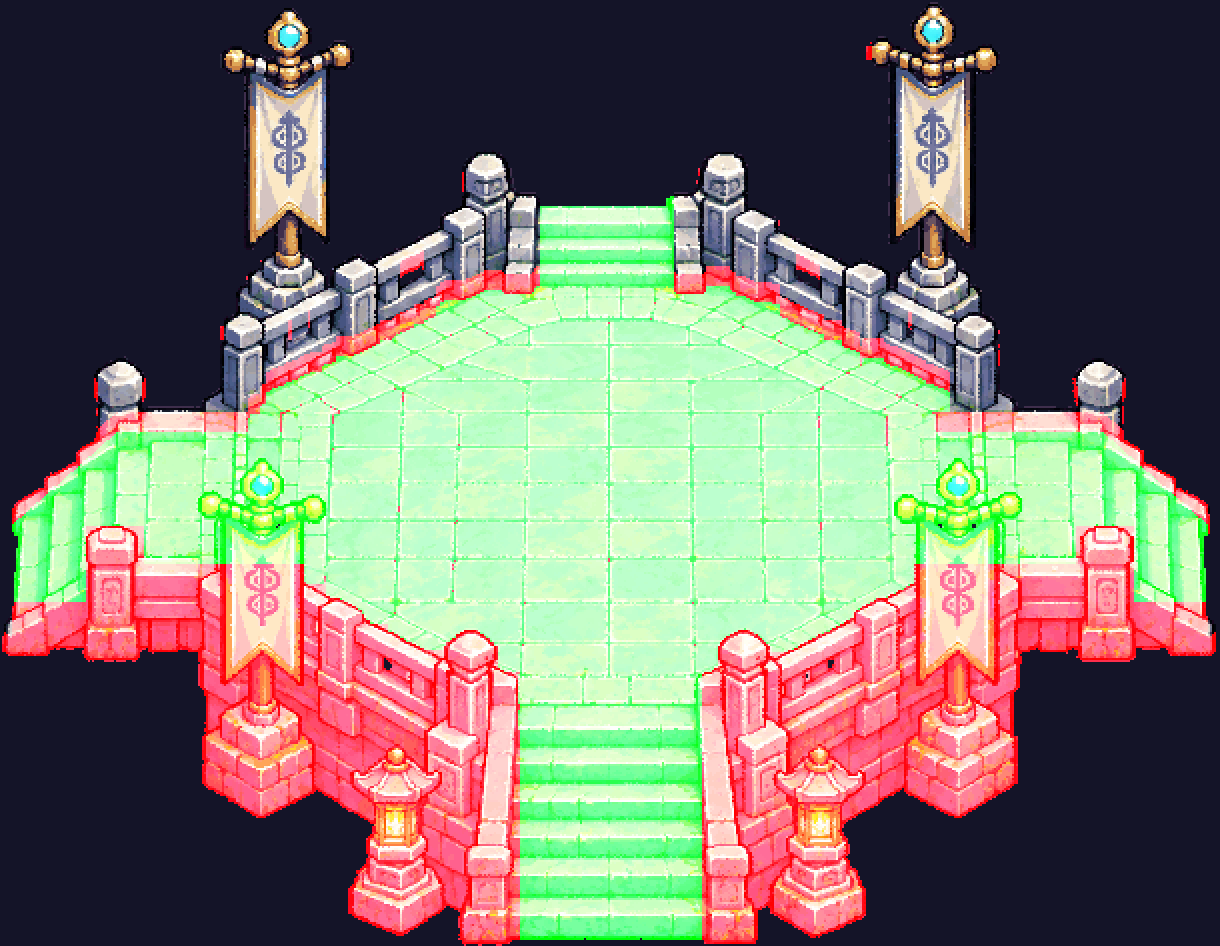
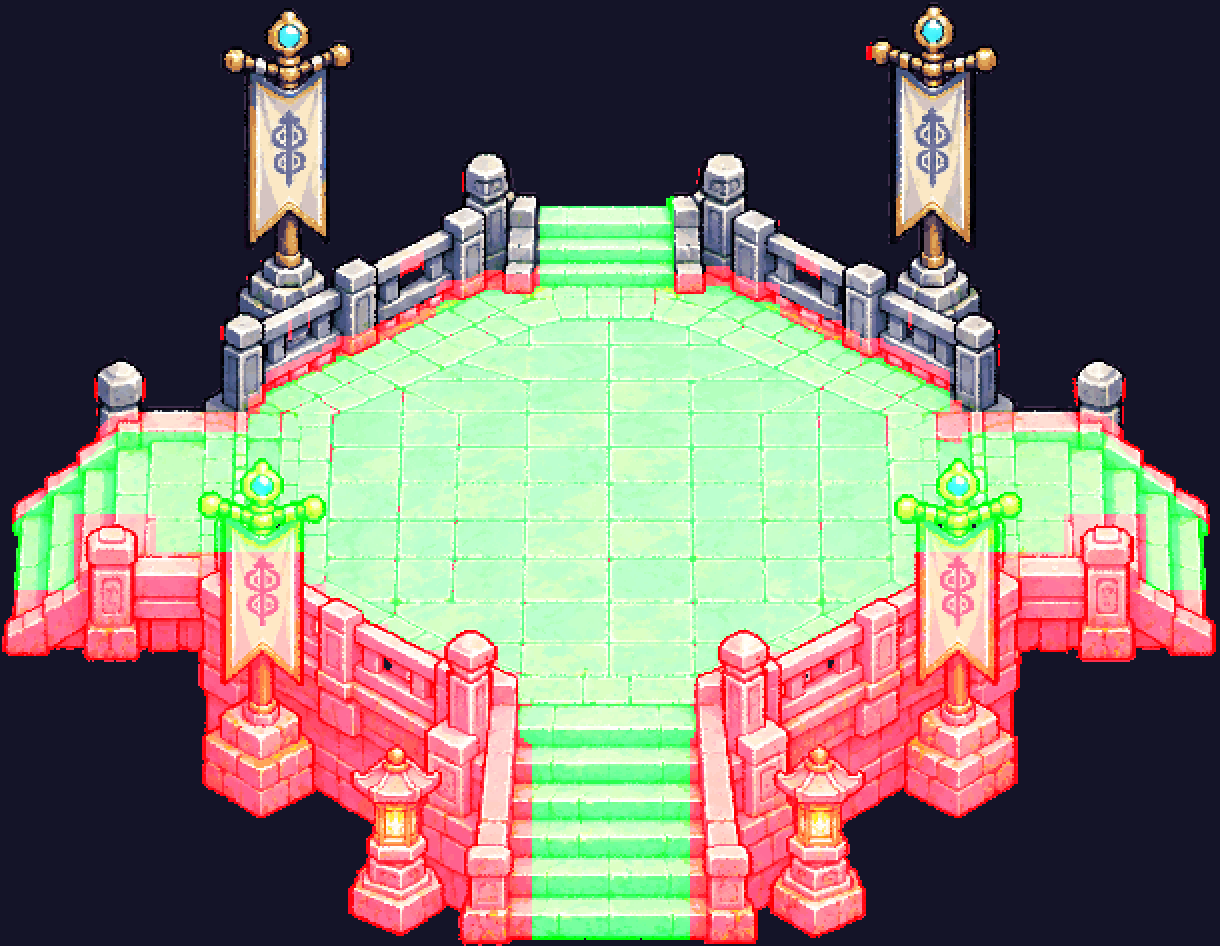
M8-02g: noi vung chan 6 px quanh khoi phia nam be, lop che co nam chi giu diem anh co

diff --git a/src/data/sect_plaza.js b/src/data/sect_plaza.js
@@ -1,4 +1,4 @@
 // SINH TỰ ĐỘNG bởi tools/build_be_phap_dai.py — đừng sửa tay. Bệ Tụ Linh Pháp Đài (sprites/tm_be*.png).
 // anchor: tâm mặt sàn trong sprite (= tâm bản đồ). rows: lưới ô 16 px quanh tâm, ô (x0 + i, y0 + j); "#" đặc, "." sàn/bậc, " " ngoài.
-// fine: lưới mịn `cell` px tính từ góc trên-trái sprite (đặt tại tâm bản đồ - anchor, làm tròn) — "#" đặc; dùng cho di chuyển.
-export const PLAZA = {"scale": 1, "anchor": [305.0, 242.0], "banners": [[104.4, 0.0, 184.4, 160.0, 160.0], [432.8, 0.0, 502.7, 160.0, 160.0], [94.3, 225.7, 166.7, 397.5, 397.5], [454.7, 225.7, 527.2, 397.5, 397.5]], "x0": -20, "y0": -16, "rows": ["                                        ", "                                        ", "                                        ", "                                        ", "                                        ", "                                        ", "                                        ", "                  ....                  ", "                  ....                  ", "               ###....### #             ", "             ##..........##             ", "           ##..............##           ", "         ##..................##         ", "     ####......................####     ", "    ................................    ", "   ..................................   ", " #....................................# ", " ...#..............................#... ", " ...######...................#######... ", " ..########..................########.. ", " ############..............############ ", " ##### ##########......########## ##### ", "       ##########......##########       ", "       ##########......##########       ", "       ##########......##########       ", "       ##########......##########       ", "         #  #####......#####  #         ", "            #####......#####            ", "            #####......#####            ", "            #####......#####            ", "               ##......##               "], "cell": 4, "fine": [".........................................................................................................................................................", ".........................................................................................................................................................", ".........................................................................................................................................................", ".........................................................................................................................................................", ".........................................................................................................................................................", ".........................................................................................................................................................", "............................................................................................................#............................................", "............................................................................................................#............................................", ".........................................................................................................................................................", ".........................................................................................................................................................", ".........................................................................................................................................................", ".........................................................................................................................................................", ".........................................................................................................................................................", ".........................................................................................................................................................", ".........................................................................................................................................................", ".........................................................................................................................................................", ".........................................................................................................................................................", ".........................................................................................................................................................", ".........................................................................................................................................................", ".........................................................................................................................................................", ".........................................................................................................................................................", ".........................................................................................................................................................", ".........................................................................................................................................................", ".........................................................................................................................................................", ".........................................................................................................................................................", ".........................................................................................................................................................", ".........................................................................................................................................................", ".........................................................................................................................................................", ".........................................................................................................................................................", ".........................................................................................................................................................", ".........................................................................................................................................................", "...................................................##..............................................##....................................................", "..................................................###..............................................####..................................................", "..................................................###..............#....................###........####..................................................", "..................................................#........#########................#########........##..................................................", ".......................................................#############................#############........................................................", "......................................................#######.#####.................####...#######.......................................................", ".....................................................######...................................#####......................................................", "...................................................####..........................................####............#.......................................", ".................................................######..........................................######..........#.......................................", "....................................#..........######..............................................#######.......#.......................................", "...........................#........#........######..................................................######..............................................", "..........................................#######......................................................########..........................................", "........................................#######..........................................................########........................................", ".....................................########..............................................................########......................................", "...................................#######.....................................................................######....................................", ".................................#######.........................................................................######..................................", ".................................####..............................................................................####...............#..................", "................................###..................................................................................##...............#.....#............", "...............................##.....................................................................................................#.....#............", "...............................##........................................................................................................................", "..............###################..#.....#...........................................................................#####################...............", ".............##################......................................................................................######################..............", "............###################......................................................................................#######################.............", "............##............................................................................................................................###............", "...........##..............................................................................................................................###...........", ".........###................................................................................................................................###..........", ".........##...................................................................................................................................#..........", "........##.....................................................................................................................................##........", "......###.......................................................................................................................................###......", ".....###.........................................................................................................................................##......", "....##............................................................................................................................................###....", "..###..............................................................................................................................................####..", ".###................................................................................................................................................###..", ".##..................................................................................................................................................##..", ".........................................................................................................................................................", "...........#######....................................................................................................................########...........", "...........#######....................................................................................................................########...........", "...........#######....................................................................................................................########...........", "...........#######....................................................................................................................########...........", "...........###########################............................................................................############################...........", "...........###########################............................................................................############################...........", "...........###########################............................................................................############################...........", "...........##############################........................................................................#############################...........", "...........###############################.....................................................................###############################...........", "..##########################################................................................................###########################################..", ".############################################..............................................................############################################..", ".#############################################............................................................#############################################..", ".################################################.......................................................###############################################..", "##################################################.......####..............................####.......##################################################.", "####################################################....######............................######....####################################################.", "#######...####################################################............................#######################################.############....######.", "...........######........#####################################............................######################################.......#######...........", ".........................######################################..........................#######################################.........................", ".........................########################################.......................########################################.........................", ".........................########################################.......................########################################.........................", ".........................########################################.......................#######################################..........................", "..........................#######################################.......................#######################################..........................", "..........................#######################################.......................#######################################..........................", "..........................#######################################.......................#######################################..........................", ".........................########################################.......................#######################################..........................", ".........................########################################.......................#######################################..........................", ".........................########################################.......................#######################################..........................", ".........................########################################.......................#######################################..........................", ".........................########################################.......................#######################################..........................", ".........................########################################.......................#######################################..........................", ".........................########################################.......................#######################################..........................", ".........................########################################.......................#######################################..........................", "..........................#######################################.......................#######################################..........................", "...........................############.#########################.......................########################.############............................", ".............................########.....#######################.......................######################.....########..............................", "...............................####........######################.......................####################.........#####...............................", ".............................................####################.......................###################..............................................", "..............................................###################.......................##################...............................................", "..............................................###################.......................##################...............................................", "..............................................###################.......................##################...............................................", "..............................................###################.......................##################...............................................", "..............................................###################.......................##################...............................................", ".............................................####################.......................###################..............................................", "............................................#####################.......................####################.............................................", "............................................#####################.......................####################.............................................", "...........................................######################.......................####################.............................................", "...........................................######################.......................####################.............................................", "...........................................######################.......................####################.............................................", "............................................###########..########.......................#######..###########.............................................", "..............................................#######....########.......................#######...#########..............................................", "................................................###......########.......................#######.....#####................................................", ".........................................................########.......................#######..........................................................", "..............................................................#.........................................................................................."]};
+// fine: lưới mịn `cell` px tính từ góc trên-trái sprite lùi `pad` px (sprite đặt tại tâm bản đồ - anchor, làm tròn) — "#" đặc; dùng cho di chuyển.
+export const PLAZA = {"scale": 1, "anchor": [305.0, 242.0], "banners": [[104.4, 0.0, 184.4, 160.0, 160.0], [432.8, 0.0, 502.7, 160.0, 160.0], [94.3, 225.7, 166.7, 397.5, 397.5], [454.7, 225.7, 527.2, 397.5, 397.5]], "x0": -20, "y0": -16, "rows": ["                                        ", "                                        ", "                                        ", "                                        ", "                                        ", "                                        ", "                                        ", "                  ....                  ", "                  ....                  ", "               ###....### #             ", "             ##..........##             ", "           ##..............##           ", "         ##..................##         ", "     ####......................####     ", "    ..........................#.....    ", "   ..................................   ", " #....................................# ", " ..###............................###.. ", " ..#######...................########.. ", "###########..................###########", "#############..............#############", "#################......#################", "       ##########......##########       ", "       ##########......##########       ", "       ###########....###########       ", "       ###########....###########       ", "        ##########....##########        ", "            ######....######            ", "           #######....#######           ", "           #######....#######           ", "            ######....######            "], "cell": 4, "pad": 8, "fine": [".............................................................................................................................................................", ".............................................................................................................................................................", ".............................................................................................................................................................", ".............................................................................................................................................................", ".............................................................................................................................................................", ".............................................................................................................................................................", ".............................................................................................................................................................", ".............................................................................................................................................................", "..............................................................................................................#..............................................", "..............................................................................................................#..............................................", ".............................................................................................................................................................", ".............................................................................................................................................................", ".............................................................................................................................................................", ".............................................................................................................................................................", ".............................................................................................................................................................", ".............................................................................................................................................................", ".............................................................................................................................................................", ".............................................................................................................................................................", ".............................................................................................................................................................", ".............................................................................................................................................................", ".............................................................................................................................................................", ".............................................................................................................................................................", ".............................................................................................................................................................", ".............................................................................................................................................................", ".............................................................................................................................................................", ".............................................................................................................................................................", ".............................................................................................................................................................", ".............................................................................................................................................................", ".............................................................................................................................................................", ".............................................................................................................................................................", ".............................................................................................................................................................", ".............................................................................................................................................................", ".............................................................................................................................................................", ".....................................................##..............................................##......................................................", "....................................................###..............................................####....................................................", "....................................................###..............#....................###........####....................................................", "....................................................#........#########................#########........##....................................................", ".........................................................#############................#############..........................................................", "........................................................#######.#####.................####...#######.........................................................", ".......................................................######...................................#####........................................................", ".....................................................####..........................................####............#.........................................", "...................................................######..........................................######..........#.........................................", "......................................#..........######..............................................#######.......#.........................................", ".............................#........#........######..................................................######................................................", "............................................#######......................................................########............................................", "..........................................#######..........................................................########..........................................", ".......................................########..............................................................########........................................", ".....................................#######.....................................................................######......................................", "...................................#######.........................................................................######....................................", "...................................####..............................................................................####...............#....................", "..................................###..................................................................................##...............#.....#..............", ".................................##.....................................................................................................#.....#..............", ".................................##......................................................................................#...................................", "................###################..#.....#...........................................................................#####################.................", "...............##################......................................................................................######################................", "..............###################......................................................................................#######################...............", "..............##.......................................................................................................###..................###..............", ".............##..........................................................................................................#...................###.............", "...........###.............................#..................................................................................................###............", "...........##...................................................................................................................................#............", "..........##.....................................................................................................................................##..........", "........###.......................................................................................................................................###........", ".......###.........................................................................................................................................##........", "......##............................................................................................................................................###......", "....###..............................................................................................................................................####....", "...###................................................................................................................................................###....", "...##......###########.................................................................................................................##########......##....", "...........###########.................................................................................................................##########............", "...........###########.................................................................................................................##########............", "...........###########.................................................................................................................##########............", "...........###########.................................................................................................................##########............", "...........#############################............................................................................#############################............", "...........#############################............................................................................#############################............", "...........#############################............................................................................#############################............", "...........#############################............................................................................#############################............", "...........################################........................................................................###############################...........", "..##########################################.....................................................................#########################################...", "..############################################................................................................#############################################..", "..#############################################..............................................................##############################################..", "..##############################################............................................................###############################################..", "..#################################################.......................................................#################################################..", "..##################################################.......####..............................####.......###################################################..", "..####################################################....######............................######....#####################################################..", "..##############################################################............................###############################################################..", "..##############################################################............................###############################################################..", "..########.##########....########################################..........................########################################....###########.#######...", ".........................##########################################......................##########################################..........................", ".........................##########################################......................##########################################..........................", ".........................##########################################......................##########################################..........................", ".........................##########################################......................##########################################..........................", "..........................#########################################.....................##########################################...........................", "..........................#########################################......................#########################################...........................", "..........................#########################################......................##########################################..........................", "..........................#########################################......................##########################################..........................", "..........................##########################################....................###########################################..........................", "..........................###########################################...................###########################################..........................", "..........................###########################################...................###########################################..........................", "..........................###########################################...................###########################################..........................", "..........................###########################################...................###########################################..........................", "..........................###########################################...................###########################################..........................", "..........................###########################################...................###########################################..........................", "..........................###########################################...................###########################################..........................", "...........................##########################################...................#########################################............................", ".............................########################################...................##########################.#############.............................", "..............................#########....##########################...................#########################....#########...............................", "................................#####........########################...................#######################........#####.................................", "..............................................#######################...................######################...............................................", "..............................................#######################...................######################...............................................", "..............................................#######################...................######################...............................................", ".............................................########################...................#######################..............................................", ".............................................########################...................#######################..............................................", "............................................#########################...................########################.............................................", "............................................#########################...................########################.............................................", "............................................#########################...................########################.............................................", "............................................#########################...................########################.............................................", "............................................#########################...................########################.............................................", "............................................#########################...................########################.............................................", "............................................#########################...................########################.............................................", ".............................................########################...................#######################..............................................", "...............................................#########..###########...................##########..#########................................................", "..................................................####....###########...................##########...######..................................................", "..........................................................#########......................#########...........................................................", "............................................................................................................................................................."]};

diff --git a/src/world/map.js b/src/world/map.js
@@ -98,7 +98,7 @@ export function makeSectMap(S = SECT) {
   const base = (tx, ty) => { const lx = tx - ox, ly = ty - oy; return tileSolid(tx, ty) || (lx >= 0 && ly >= 0 && lx < S.W && ly < S.H && solid[ly * S.W + lx] === 1); };
   // bệ pháp đài: lưới ô (thô, cho test/BFS) + lưới mịn PLAZA.cell px (di chuyển bám sát hình: lan can bắc chỉ chặn ở chân, vách nam chặn cả khối)
   const ctx = ox + S.W / 2, cty = oy + S.H / 2, P0 = PLAZA, cell = P0.cell;
-  const fx0 = Math.round(m.cx - P0.anchor[0]), fy0 = Math.round(m.cy - P0.anchor[1]), fW = P0.fine[0].length * cell, fH = P0.fine.length * cell;
+  const fx0 = Math.round(m.cx - P0.anchor[0]) - (P0.pad || 0), fy0 = Math.round(m.cy - P0.anchor[1]) - (P0.pad || 0), fW = P0.fine[0].length * cell, fH = P0.fine.length * cell;
   const plazaTile = (tx, ty) => { const r = P0.rows[ty - cty - P0.y0]; return r ? r[tx - ctx - P0.x0] : undefined; };
   m.solidTile = (tx, ty) => base(tx, ty) || plazaTile(tx, ty) === '#';
   m.solidPx = (x, y) => {

diff --git a/tests/sect_map.test.js b/tests/sect_map.test.js
@@ -80,7 +80,7 @@ test('bệ pháp đài (sprite): mặt sàn tới được, chỉ lên/xuống q
   }
   assert.ok(walkN > 200, `sàn ${walkN}`);
   // bịt 4 lối (vùng bậc/cánh) thì từ tâm không ra được ngoài khung sprite -> mép bệ kín
-  const W = PLAZA.fine[0].length * PLAZA.cell, H = PLAZA.fine.length * PLAZA.cell, x0 = Math.round(m.cx - PLAZA.anchor[0]), y0 = Math.round(m.cy - PLAZA.anchor[1]);
+  const W = PLAZA.fine[0].length * PLAZA.cell, H = PLAZA.fine.length * PLAZA.cell, x0 = Math.round(m.cx - PLAZA.anchor[0]) - PLAZA.pad, y0 = Math.round(m.cy - PLAZA.anchor[1]) - PLAZA.pad;
   const exit = (x, y) => (Math.abs(x - m.cx) < 48 && (y < m.cy - 90 || y > m.cy + 92)) || Math.abs(x - m.cx) > 175;
   const d = bfs({ x: m.cx, y: m.cy }, exit);
   for (let k = 0; k < d.length; k++) if (d[k] >= 0) {

diff --git a/TASKS_TU_TIEN_LO.md b/TASKS_TU_TIEN_LO.md
@@ -373,6 +373,7 @@ Thiết kế + backlog đầy đủ (ChatGPT, 13/11): **`docs/chatgpt_tong_mon_M
   - [x] M8-02d (14/11) Bệ pháp đài thay bằng hình ChatGPT vẽ theo ảnh 1 (cách "mảng địa hình vẽ sẵn"): `docs/concept/tong_mon_be_phap_dai_4loi_chatgpt.png` → `sprites/tm_be.png` (+ `tm_be_front.png` lớp che), va chạm sinh bằng `tools/build_be_phap_dai.py` → `src/data/sect_plaza.js`; 4 lối lên (bắc, bậc nam, cánh đông/tây); bỏ vách/lan can vẽ bằng code của M8-02c; 204/204 test; phím thật: tâm → Tàng Kinh 6,1 s, → Đan Dược 6,1 s, → bia 4,4 s, lan can chặn đúng. Ảnh `docs/playtest/M8_02d_be_sprite.png`
   - [x] M8-02e (14/11) Sửa bệ theo góp ý: thu nhỏ ~89% (`--scale 1.8`), xoá điểm ảnh ám magenta (viền + khe lan can), va chạm chặt hơn (trụ/bệ cờ đặc, ngưỡng 15%), lớp che xếp theo chân từng cột pixel + cả cây cờ theo chân bệ cờ; test thiên kiếp theo vòng giữ người chơi (ARENA_R - 4); 204/204; thử 8 chỗ mép bệ bằng phím thật (`docs/playtest/M8_02e_mep_be.png`)
   - [x] M8-02f (14/11) Sửa bệ lần 2: nhỏ thêm (`--scale 1.9`, ~84% bản đầu); mặt sàn tìm tự động (loang từ tâm + mở hình thái), bậc/cánh khoanh trong khe má bậc/trụ; va chạm lưới mịn 4 px (`PLAZA.fine`, `m.solidPx`) — vật phía bắc sàn chỉ đặc ở chân, phía nam đặc cả khối; nắn góc khi đi (chỉ sảnh) để men theo bậc dốc; test sect_map loang theo `canStand` bước 4 px; ảnh kiểm tra va chạm `docs/playtest/M8_be_va_cham.png`; 204/204; phím thật 16 chỗ mép bệ, chỉ giữ A/D từ tâm tới Tàng Kinh 6,3 s / Đan Dược ~6,2 s
+  - [x] M8-02g (14/11) Góp ý: nới vùng chặn 6 px quanh khối phía nam (vách, đèn, má bậc, trụ dưới cánh, bệ cờ nam; không lấn mặt sàn) để nhân vật không áp sát rồi bị lớp che đè; cờ phía nam ở lớp che chỉ giữ điểm ảnh cờ (lọc màu) thay vì cả khung — hết mảng sàn đè lên nhân vật; 204/204; phím thật `docs/playtest/M8_02g_mep_be.png`
 - [ ] M8-03 Hệ thống tương tác công trình dùng chung (M, P0)
 - [ ] M8-04 Cổng Bí Cảnh (S, P0)
 - [ ] M8-05 Tụ Linh Pháp Đài (M, P0) → GATE M8-A
